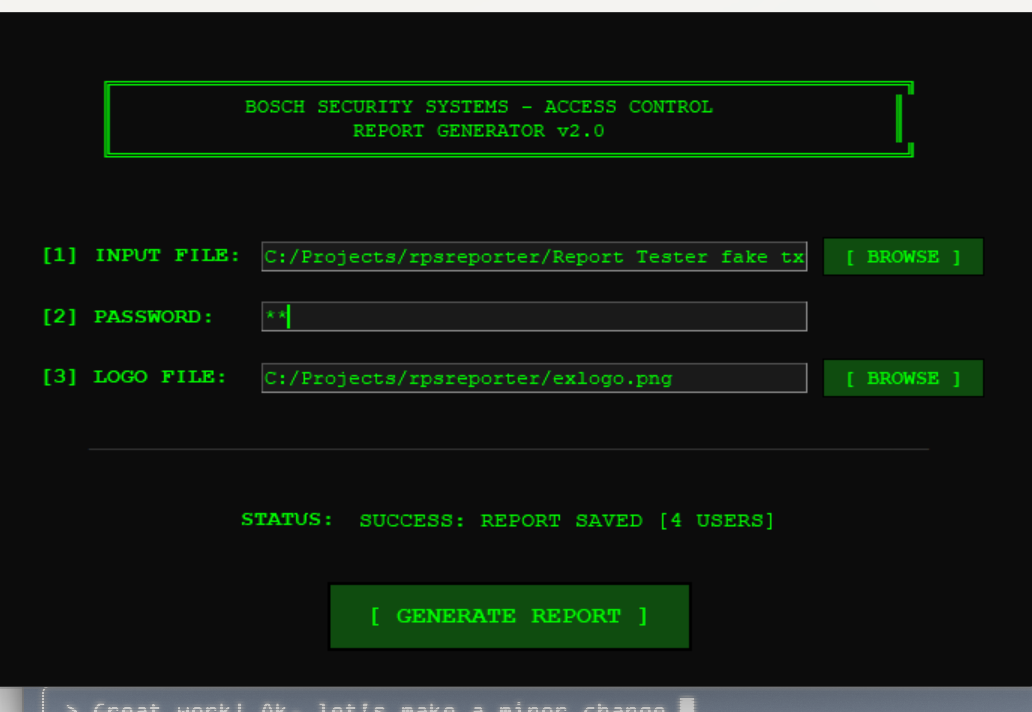
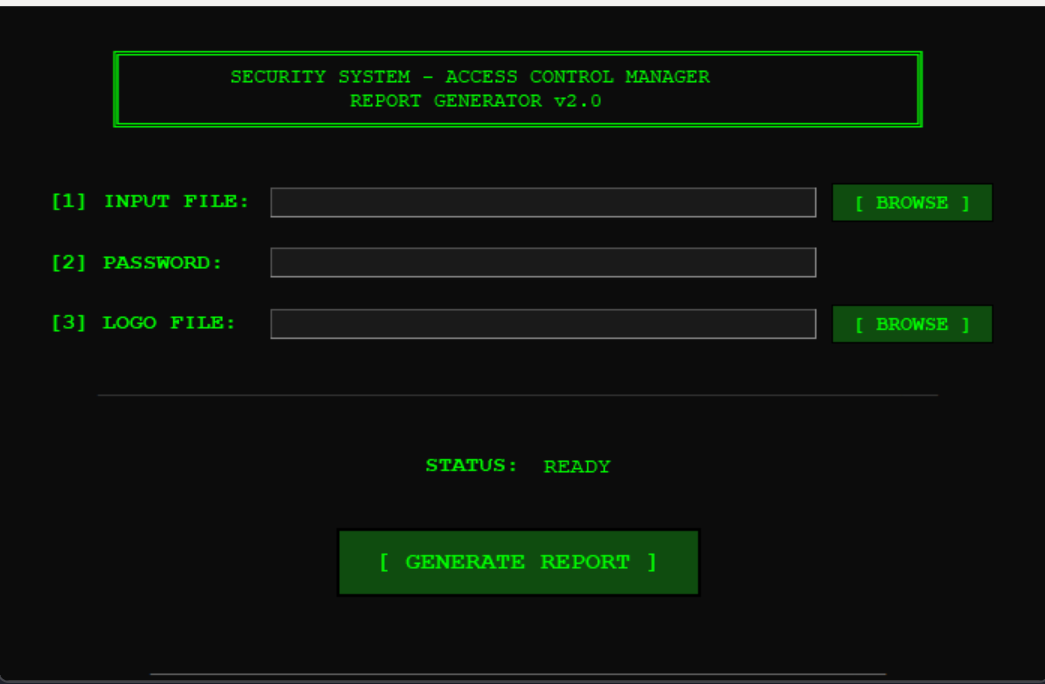
minor updates

diff --git a/userreporter.py b/userreporter.py
@@ -7,7 +7,7 @@ import os
 import html  # For HTML escaping
 import json  # For safe JSON encoding
 
-# Parse Bosch TXT file
+# Parse security system TXT file
 def parse_bosch_txt(filepath):
     # Validate file path
     if not os.path.isfile(filepath):
@@ -24,7 +24,7 @@ def parse_bosch_txt(filepath):
                     user_id_part = parts[0]  # "User 0"
                     user_id = user_id_part.replace("User ", "")
                     
-                    # Fix Bosch's weird spacing in usernames
+                    # Fix weird spacing in usernames from export
                     # Remove spaces that appear to be in the middle of words
                     raw_name = parts[1]
                     # Remove spaces between letter characters that appear to be breaking words
@@ -977,7 +977,7 @@ function exportHTML() {{
     let blob = new Blob([html], {{type: "text/html"}});
     let a = document.createElement("a");
     a.href = URL.createObjectURL(blob);
-    a.download = "Bosch_Report_" + new Date().toISOString().slice(0,10) + ".html";
+    a.download = "Security_Report_" + new Date().toISOString().slice(0,10) + ".html";
     a.click();
     alert("Report exported successfully!");
   }}
@@ -998,7 +998,7 @@ document.getElementById("pwdInput")?.addEventListener("keypress", function(e) {{
 # Enhanced Tkinter GUI with retro DOS theme
 def run_gui():
     root = tk.Tk()
-    root.title("BOSCH SECURITY SYSTEMS - REPORT GENERATOR v2.0")
+    root.title("SECURITY SYSTEM - PASSCODE REPORT GENERATOR v2.0")
     root.geometry("700x450")
     root.resizable(False, False)
     
@@ -1019,7 +1019,7 @@ def run_gui():
     
     # ASCII Art Header  
     header_text = """╔══════════════════════════════════════════════════════════════════╗
-║          BOSCH SECURITY SYSTEMS - ACCESS CONTROL                 ║
+║         SECURITY SYSTEM - ACCESS CONTROL MANAGER                 ║
 ║                   REPORT GENERATOR v2.0                          ║
 ╚══════════════════════════════════════════════════════════════════╝"""
     
@@ -1120,7 +1120,7 @@ def run_gui():
             
             html = generate_html(data, pwd_entry.get(), logo_data)
             
-            default_name = f"Bosch_Report_{datetime.now().strftime('%Y-%m-%d_%H-%M')}.html"
+            default_name = f"Security_Report_{datetime.now().strftime('%Y-%m-%d_%H-%M')}.html"
             save_path = filedialog.asksaveasfilename(
                 defaultextension=".html",
                 initialfile=default_name,
@@ -1148,7 +1148,7 @@ def run_gui():
     generate_btn.pack()
     
     # Footer
-    footer_text = "─" * 70 + "\nBOSCH SECURITY SYSTEMS (C) 2024 - AUTHORIZED USE ONLY"
+    footer_text = "─" * 70 + "\nCreated by: A Physical Security Engineer © 2025"
     footer_label = tk.Label(main_frame, text=footer_text, font=('Courier', 9), 
                            bg=bg_color, fg="#666666", justify="center")
     footer_label.grid(row=7, column=0, columnspan=3, pady=(20, 0))

diff --git a/CLAUDE.md b/CLAUDE.md
@@ -4,13 +4,13 @@ This file provides guidance to Claude Code (claude.ai/code) when working with co
 
 ## Project Overview
 
-Bosch Security Systems Report Generator - A Python application that parses Bosch B9512G panel user export files and generates interactive HTML reports with access control data.
+Security System Report Generator - A Python application that parses security system user export files and generates interactive HTML reports with access control data.
 
 ## Core Architecture
 
 Single-file Python application (`userreporter.py`) with three main components:
 
-1. **Parser**: `parse_bosch_txt()` - Handles Bosch's peculiar text format with:
+1. **Parser**: `parse_bosch_txt()` - Handles the security system's text format with:
    - Comma-separated values with inconsistent spacing
    - User data deduplication by User ID
    - Automatic filtering of placeholder users (User* with no passcode)
@@ -36,7 +36,7 @@ python userreporter.py
 
 ## Data Format
 
-Input: Bosch TXT export files with format:
+Input: Security system TXT export files with format:
 - Header lines with account info
 - User data lines: `User [ID],User Nam e ,Pass code ,[groups/access],A1-A8 Auth levels`
 - Multiple pages separated by timestamp lines
